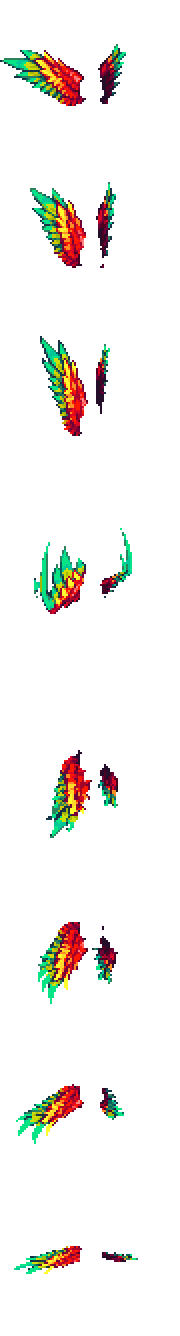
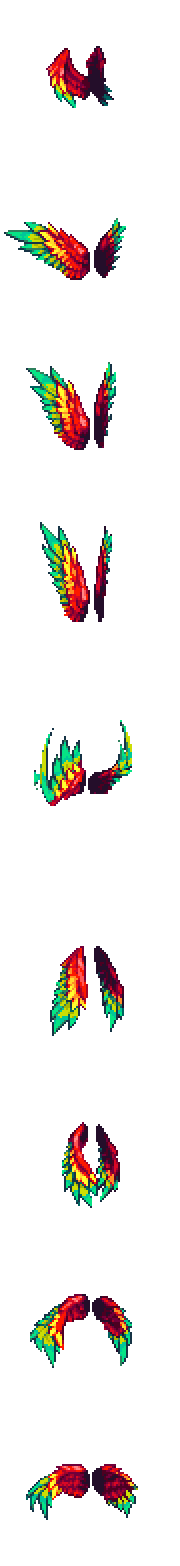
Wings of Rebirth sprites

diff --git a/Items/Accessories/Wings/WingsofRebirth.cs b/Items/Accessories/Wings/WingsofRebirth.cs
@@ -55,14 +55,21 @@ namespace CalamityMod.Items.Accessories.Wings
         {
             if (player.controlJump && player.wingTime > 0 && player.velocity.Y != 0)
             {
-                int frameRate = 5;
-                int maxFrames = 8;
+                int frameRate = 5; // FPS
+                int maxFrames = 9; // Total frames
                 player.wingFrameCounter++;
-                if (player.wingFrameCounter >= frameRate * (maxFrames - 1))
+                // Start flight animation with frame 7
+                if (player.wingFrame == 0)
+                {
+                    player.wingFrame = 7;
+                }
+                // Reset frames
+                if (player.wingFrame >= maxFrames)
                 {
                     player.wingFrameCounter = 0;
-                    player.wingFrame = 0;
+                    player.wingFrame = 1;
                 }
+                // Animation
                 if (player.wingFrameCounter % frameRate == 0)
                 {
                     player.wingFrame++;
@@ -71,12 +78,12 @@ namespace CalamityMod.Items.Accessories.Wings
             else
             {
                 player.wingFrameCounter = 0;
-                player.wingFrame = 0;
+                player.wingFrame = 0; // On ground
                 if (player.velocity.Y != 0)
                 {
-                    player.wingFrame = 1;
+                    player.wingFrame = 2; // Falling
                     if (player.controlJump && player.velocity.Y > 0)
-                        player.wingFrame = 7;
+                        player.wingFrame = 1; // Gliding
                 }
             }
             return true;

diff --git a/CalPlayer/DrawLayers/WingsofRebirthLayer.cs b/CalPlayer/DrawLayers/WingsofRebirthLayer.cs
@@ -28,13 +28,12 @@ namespace CalamityMod.CalPlayer.DrawLayers
 
             if (drawPlayer.dead)
                 return;
-
             Texture2D texture = yharwingTexture.Value;
             Vector2 Position = drawInfo.Position;
             Vector2 pos = new Vector2((int)(Position.X - Main.screenPosition.X + (drawPlayer.width / 2) - (2 * drawPlayer.direction)), (int)(Position.Y - Main.screenPosition.Y + (drawPlayer.height / 2) - 2f * drawPlayer.gravDir));
             Color lightColor = Lighting.GetColor((int)drawPlayer.Center.X / 16, (int)drawPlayer.Center.Y / 16, Color.White);
             Color color = lightColor * (1 - drawInfo.shadow);
-            DrawData d = new DrawData(texture, pos, texture.Frame(1, 8, 0, drawInfo.drawPlayer.wingFrame), drawInfo.colorArmorBody, 0f, new Vector2(texture.Width / 2, texture.Height / 16), 1f, drawInfo.playerEffect, 0);
+            DrawData d = new DrawData(texture, pos, texture.Frame(1, 9, 0, drawInfo.drawPlayer.wingFrame), color, 0f, new Vector2(texture.Width / 2, texture.Height / 18), 1f, drawInfo.playerEffect, 0);
             d.shader = drawInfo.drawPlayer.cWings;
             drawInfo.DrawDataCache.Add(d);
         }
